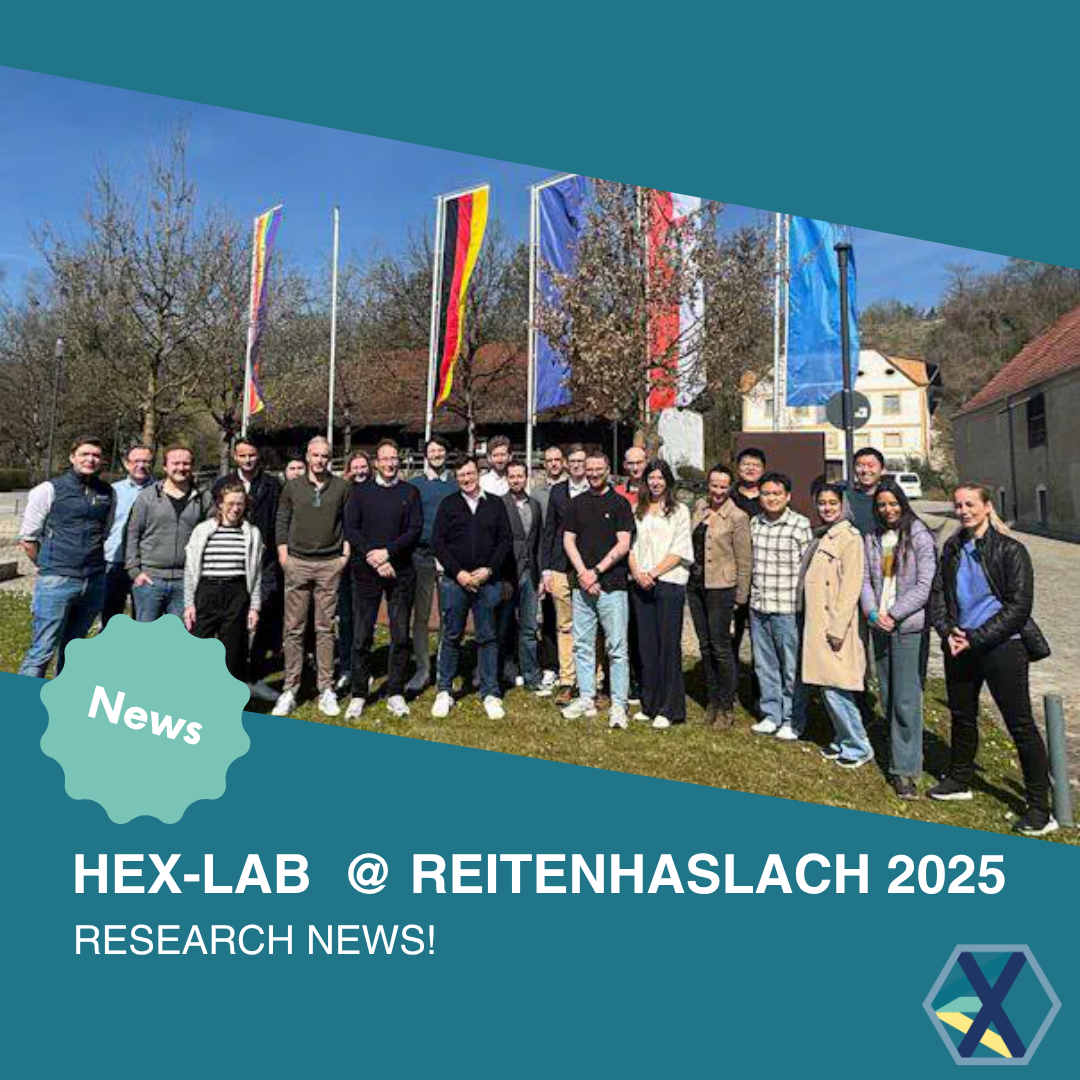
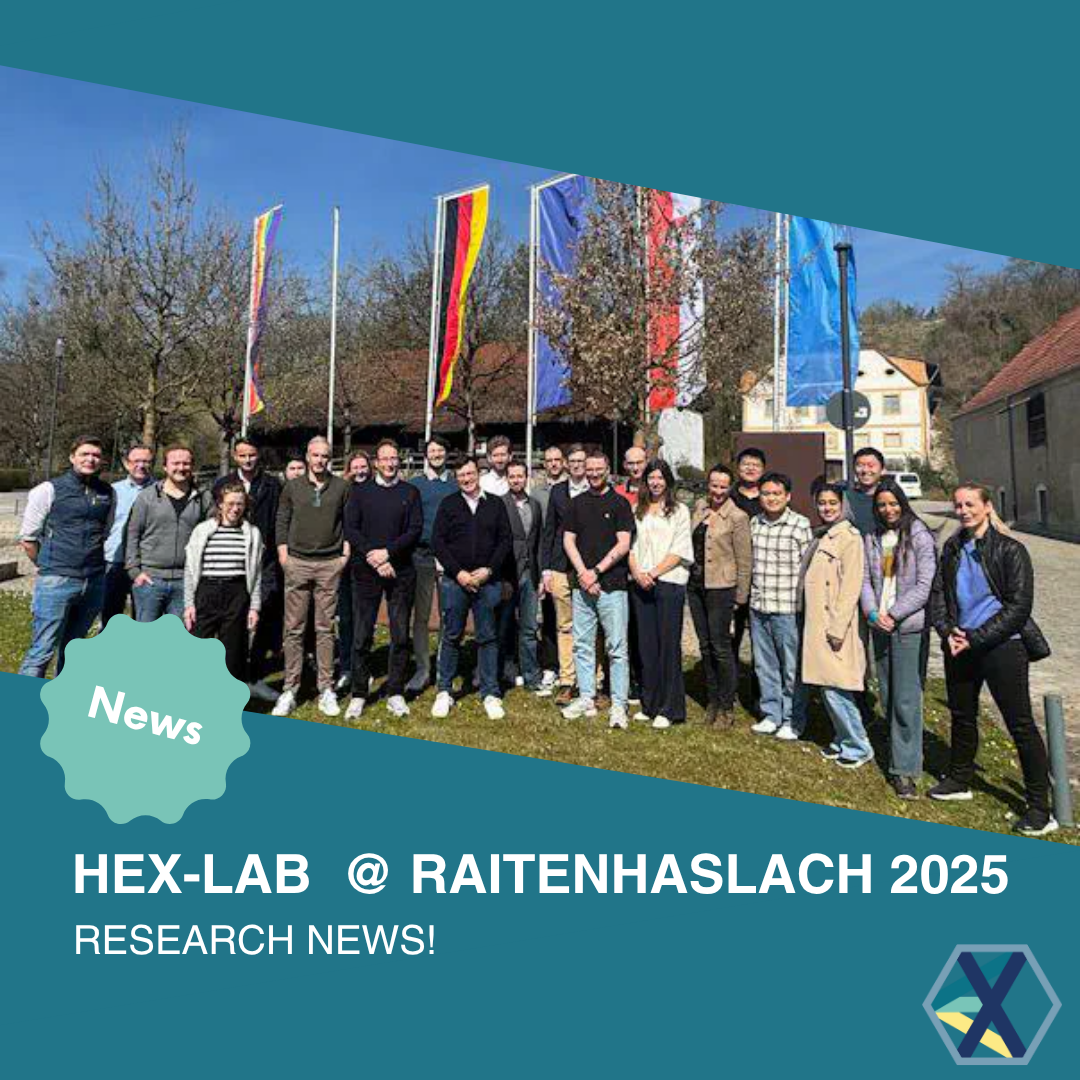
spelling

Changed region(s): [[0.3972, 0.7944, 0.9472, 0.825]]

diff --git a/content/post/2025-04-11-Retreat/index.md b/content/post/2025-04-11-Retreat/index.md
@@ -1,5 +1,5 @@
 ---
-title: HEX-Lab @ Reitenhaslach 2025
+title: HEX-Lab @ Raitenhaslach 2025
 date: 2025-04-11
 summary: >
     
